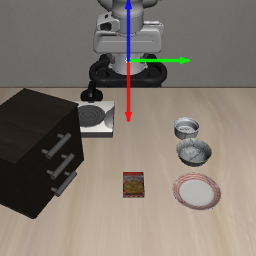
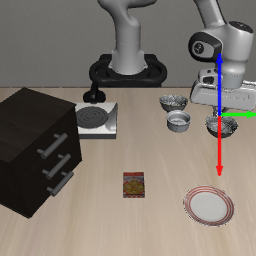
add eval smolvla with basis

diff --git a/src/lerobot/policies/smolvla/modeling_smolvla.py b/src/lerobot/policies/smolvla/modeling_smolvla.py
@@ -290,7 +290,9 @@ class SmolVLAPolicy(PreTrainedPolicy):
             if k in self._queues and k != ACTION:
                 batch[k] = torch.stack(list(self._queues[k]), dim=1)
         images, img_masks = self.prepare_images(batch)
+        #TODO WS: check state is normalized ? and state is same as training ?
         state = self.prepare_state(batch)
+        import pudb; pudb.set_trace()
         lang_tokens = batch[f"{OBS_LANGUAGE_TOKENS}"]
         lang_masks = batch[f"{OBS_LANGUAGE_ATTENTION_MASK}"]
 
@@ -344,7 +346,7 @@ class SmolVLAPolicy(PreTrainedPolicy):
         )
 
         self.eval()
-        if self.config.visual_cue_mode is not "vanilla":
+        if self.config.visual_cue_mode != "vanilla":
             batch = self._get_visual_cues(batch)
         batch = self._prepare_batch(batch)
         self._queues = populate_queues(self._queues, batch, exclude_keys=[ACTION])
@@ -381,6 +383,7 @@ class SmolVLAPolicy(PreTrainedPolicy):
             batch[OBS_STATE] = self._pi_aloha_decode_state(batch[OBS_STATE])
             batch[ACTION] = self._pi_aloha_encode_actions_inv(batch[ACTION])
         images, img_masks = self.prepare_images(batch)
+        #TODO WS: check state is normalized ?
         state = self.prepare_state(batch)
         lang_tokens = batch[f"{OBS_LANGUAGE_TOKENS}"]
         lang_masks = batch[f"{OBS_LANGUAGE_ATTENTION_MASK}"]
@@ -492,12 +495,12 @@ class SmolVLAPolicy(PreTrainedPolicy):
 
     def _get_visual_cues(self, item):
         try:
-            extrinsic_matrix = item['observation.cam_info']['extrinsic_matrix'].to(torch.float32)
+            extrinsic_matrix = item['observation.cam_info']['extrinsic_matrix'].to(torch.float32).squeeze(0)
             extrinsic_matrix = remove_extrinsic_camera_axis_correction(extrinsic_matrix)
 
-            intrinsic_matrix = item['observation.cam_info']['intrinsic_matrix'].to(torch.float32)
-            robot_state = item['observation.state'] #eef pos (3), eef quat (4), gripper qpos (2), 
-            img = item['observation.images.camera1'] # S * C * H * W
+            intrinsic_matrix = item['observation.cam_info']['intrinsic_matrix'].to(torch.float32).squeeze(0)
+            robot_state = item['observation.cam_info']['unnormalized_state'] # gripper qpos (2), eef pos (3), eef quat (4),
+            img = item['observation.image'] # S * C * H * W
 
             if "basis" in self.config.visual_cue_mode:
                 with torch.no_grad():
@@ -506,29 +509,29 @@ class SmolVLAPolicy(PreTrainedPolicy):
                             rgb_tensor=img,                  # (B, 3,H,W)
                             cam_to_world=extrinsic_matrix,                  # cam_pose = cam_to_world (고정)
                             intrinsic_matrix=intrinsic_matrix,
-                            robot_eef_abs_poses=robot_state[:, :7],  # eef pose (B, 7)
+                            robot_eef_abs_poses=robot_state[:, -7:],  # eef pose (B, 7)
                             origin_robot=True,
                             origin_fallback="pp",
                             arrow_len=60,
                             return_overlay=False,
                         )
                         try:
-                            wrist_img = item['observation.images.camera2']
-                            wrist_intrinsic_matrix = item['observation.cam_info']['wrist_intrinsic_matrix'].to(torch.float32)
-                            wrist_extrinsic_matrix = item['observation.cam_info']['wrist_extrinsic_matrix'].to(torch.float32)
+                            wrist_img = item['observation.wrist_image']
+                            wrist_intrinsic_matrix = item['observation.cam_info']['wrist_intrinsic_matrix'].to(torch.float32).squeeze(0)
+                            wrist_extrinsic_matrix = item['observation.cam_info']['wrist_extrinsic_matrix'].to(torch.float32).squeeze(0)
                             wrist_plucker_extrinsic_matrix = remove_extrinsic_camera_axis_correction(wrist_extrinsic_matrix)
                             wrist_axis_tensor, wrist_origin_xy = _rescale_make_motion_basis_axis_rgb_tensor_cam_to_world(
                                 rgb_tensor=wrist_img,
                                 cam_to_world=wrist_plucker_extrinsic_matrix,
                                 intrinsic_matrix=wrist_intrinsic_matrix,
-                                robot_eef_abs_poses=robot_state[:, :7],
+                                robot_eef_abs_poses=robot_state[:, -7:],
                                 origin_robot=True,
                                 origin_fallback="pp",
                                 arrow_len=60,
                                 return_overlay=False,
                             )
                             # save_rgb_image(wrist_axis_tensor[0], "tmp_dir/wrist_scaled_axis_tensor.png")
-                            item['observation.images.camera2'] = torch.cat([wrist_img, wrist_axis_tensor], dim=1)
+                            item['observation.wrist_image'] = torch.cat([wrist_img, wrist_axis_tensor], dim=1)
                         except:
                             pass
                     else:
@@ -538,39 +541,39 @@ class SmolVLAPolicy(PreTrainedPolicy):
                             motion_dynamics_basis=motion_dynamics_basis,
                             cam_to_world=extrinsic_matrix,                  # cam_pose = cam_to_world (고정)
                             intrinsic_matrix=intrinsic_matrix,
-                            robot_eef_abs_poses=robot_state[:, :7],  # eef pose (B, 7)
+                            robot_eef_abs_poses=robot_state[:, -7:],  # eef pose (B, 7)
                             origin_robot=True,
                             origin_fallback="pp",
                             arrow_len=60,
                             return_overlay=False,
                         ) # (B, 3, H, W)
                         try:
-                            wrist_img = item['observation.images.camera2']
-                            wrist_intrinsic_matrix = item['observation.cam_info']['wrist_intrinsic_matrix'].to(torch.float32)
-                            wrist_extrinsic_matrix = item['observation.cam_info']['wrist_extrinsic_matrix'].to(torch.float32)
+                            wrist_img = item['observation.wrist_image']
+                            wrist_intrinsic_matrix = item['observation.cam_info']['wrist_intrinsic_matrix'].to(torch.float32).squeeze(0)
+                            wrist_extrinsic_matrix = item['observation.cam_info']['wrist_extrinsic_matrix'].to(torch.float32).squeeze(0)
                             wrist_plucker_extrinsic_matrix = remove_extrinsic_camera_axis_correction(wrist_extrinsic_matrix)
                             wrist_axis_tensor, wrist_origin_xy = _make_motion_basis_wrist_axis_rgb_tensor_cam_to_world(
                                 rgb_tensor=wrist_img,
                                 cam_to_world=wrist_plucker_extrinsic_matrix,
                                 intrinsic_matrix=wrist_intrinsic_matrix,
-                                robot_eef_abs_poses=robot_state[:, :7],
+                                robot_eef_abs_poses=robot_state[:, -7:],
                                 origin_robot=True,
                                 origin_fallback="pp",
                                 arrow_len=60,
                                 return_overlay=False,
                             )
                             # save_rgb_image(wrist_axis_tensor[0], "tmp_dir/wrist_non_scaled_axis_tensor.png")
-                            item['observation.images.camera2'] = torch.cat([wrist_img, wrist_axis_tensor], dim=1)
+                            item['observation.wrist_image'] = torch.cat([wrist_img, wrist_axis_tensor], dim=1)
                         except:
                             pass
-                item['observation.images.camera1'] = torch.cat([img, axis_tensor], dim=1)
+                item['observation.image'] = torch.cat([img, axis_tensor], dim=1)
                 # save_rgb_image(axis_tensor[0], "tmp_dir/axis_tensor.png")
                 # save_rgb_image(item['observation.image'][0], "tmp_dir/robot_image.png")
 
         except Exception as e:
             print(e)
         return item
-    
+
 def pad_tensor(tensor, max_len, pad_value=0):
     """
     Efficiently pads a tensor along sequence dimension to match max_len.
@@ -635,7 +638,6 @@ class VLAFlowMatching(nn.Module):
             expert_width_multiplier=self.config.expert_width_multiplier,
             device=self.config.device if self.config.device is not None else "auto",
             visual_cue_mode=self.config.visual_cue_mode,
-            code_mode=self.config.code_mode,
         )
         self.state_proj = nn.Linear(
             self.config.max_state_dim, self.vlm_with_expert.config.text_config.hidden_size

diff --git a/src/lerobot/policies/smolvla/smolvlm_with_expert.py b/src/lerobot/policies/smolvla/smolvlm_with_expert.py
@@ -73,7 +73,6 @@ class SmolVLMWithExpertModel(nn.Module):
         expert_width_multiplier: float = 0.5,
         device: str = "auto",
         visual_cue_mode: str = "none",
-        code_mode: str = "train",
     ):
         super().__init__()
         if load_vlm_weights:
@@ -96,7 +95,6 @@ class SmolVLMWithExpertModel(nn.Module):
         self.config = config
         self.visual_cue_mode = visual_cue_mode
         self.new_visual_cue_encoder = False
-        self.code_mode = code_mode
         self.apply_visual_cue_mode()
         # Smaller lm expert
         lm_expert_config = copy.deepcopy(config.text_config)
@@ -585,63 +583,62 @@ class SmolVLMWithExpertModel(nn.Module):
         return att_output
 
     def apply_visual_cue_mode(self):
-        if self.code_mode == "train":
-            if self.visual_cue_mode == "basis_rescale_concat" or self.visual_cue_mode == "basis_concat":
-                self.vlm.model.vision_model.embeddings.patch_embedding = expand_in_channels_keep_rgb(
-                    self.vlm.model.vision_model.embeddings.patch_embedding, new_in_chans=6,
-                )
-                print("patch_embedding: Expanded in_channels to 6 for {}-based input!".format(self.visual_cue_mode))
-            elif self.visual_cue_mode == "plucker_concat":
-                self.vlm.model.vision_model.embeddings.patch_embedding = expand_in_channels_keep_rgb(
-                    self.vlm.model.vision_model.embeddings.patch_embedding, new_in_chans=9,
-                )
-                print("patch_embedding: Expanded in_channels to 9 for plucker-based input!")
+        if self.visual_cue_mode == "basis_rescale_concat" or self.visual_cue_mode == "basis_concat":
+            self.vlm.model.vision_model.embeddings.patch_embedding = expand_in_channels_keep_rgb(
+                self.vlm.model.vision_model.embeddings.patch_embedding, new_in_chans=6,
+            )
+            print("patch_embedding: Expanded in_channels to 6 for {}-based input!".format(self.visual_cue_mode))
+        elif self.visual_cue_mode == "plucker_concat":
+            self.vlm.model.vision_model.embeddings.patch_embedding = expand_in_channels_keep_rgb(
+                self.vlm.model.vision_model.embeddings.patch_embedding, new_in_chans=9,
+            )
+            print("patch_embedding: Expanded in_channels to 9 for plucker-based input!")
 
-            elif self.visual_cue_mode == "plucker" or self.visual_cue_mode == "basis" or self.visual_cue_mode == "basis_rescale":
-                # Encode 6-channel Plücker map to a 512-d feature grid
-                in_channels = 3 if self.visual_cue_mode != "plucker" else 6
-                self.visual_cue_encoder = nn.Sequential(
-                    nn.Conv2d(in_channels, 64, kernel_size=7, stride=2, padding=3, bias=False),
-                    FrozenBatchNorm2d(64),
-                    nn.ReLU(inplace=True),
-                    nn.Conv2d(64, 128, kernel_size=3, stride=2, padding=1, bias=False),
-                    FrozenBatchNorm2d(128),
-                    nn.ReLU(inplace=True),
-                    nn.Conv2d(128, 256, kernel_size=3, stride=2, padding=1, bias=False),
-                    FrozenBatchNorm2d(256),
-                    nn.ReLU(inplace=True),
-                    nn.Conv2d(256, 512, kernel_size=3, stride=2, padding=1, bias=False),
-                    FrozenBatchNorm2d(512),
-                    nn.ReLU(inplace=True),
-                    nn.Conv2d(512, 512, kernel_size=3, stride=2, padding=1, bias=False),
-                    FrozenBatchNorm2d(512),
-                    nn.ReLU(inplace=True),
-                )
-                # Project to vision hidden size and fuse with SigLIP tokens
-                vision_hidden = int(self.vlm.config.vision_config.hidden_size)
-                self.visual_cue_out_proj = nn.Conv2d(512, vision_hidden, kernel_size=1)
-                self.vision_fusion_proj = nn.Linear(vision_hidden * 2, vision_hidden)
-                # Normalize streams and align dtypes with vision encoder
-                self.vision_ln = nn.LayerNorm(vision_hidden, elementwise_affine=False)
-                self.visual_cue_ln = nn.LayerNorm(vision_hidden, elementwise_affine=False)
-                vf_dtype = self.get_vlm_model().vision_model.dtype
-                self.visual_cue_out_proj = self.visual_cue_out_proj.to(dtype=vf_dtype)
-                self.vision_fusion_proj = self.vision_fusion_proj.to(dtype=vf_dtype)
-                self.new_visual_cue_encoder = True
-                print("Initialized visual cue encoder for {} input!.".format(self.visual_cue_mode))
-        else:
-            print("EVAL mode")
-            if self.visual_cue_mode == "basis_rescale_concat" or self.visual_cue_mode == "basis_concat" or self.visual_cue_mode == "plucker_concat":
-                print("EVAL: Expanded in_channels for {}-based input!".format(self.visual_cue_mode))
-                print("Current Model patch embedding in channels: ", self.vlm.model.vision_model.embeddings.patch_embedding.in_channels) 
+        elif self.visual_cue_mode == "plucker" or self.visual_cue_mode == "basis" or self.visual_cue_mode == "basis_rescale":
+            # Encode 6-channel Plücker map to a 512-d feature grid
+            in_channels = 3 if self.visual_cue_mode != "plucker" else 6
+            self.visual_cue_encoder = nn.Sequential(
+                nn.Conv2d(in_channels, 64, kernel_size=7, stride=2, padding=3, bias=False),
+                FrozenBatchNorm2d(64),
+                nn.ReLU(inplace=True),
+                nn.Conv2d(64, 128, kernel_size=3, stride=2, padding=1, bias=False),
+                FrozenBatchNorm2d(128),
+                nn.ReLU(inplace=True),
+                nn.Conv2d(128, 256, kernel_size=3, stride=2, padding=1, bias=False),
+                FrozenBatchNorm2d(256),
+                nn.ReLU(inplace=True),
+                nn.Conv2d(256, 512, kernel_size=3, stride=2, padding=1, bias=False),
+                FrozenBatchNorm2d(512),
+                nn.ReLU(inplace=True),
+                nn.Conv2d(512, 512, kernel_size=3, stride=2, padding=1, bias=False),
+                FrozenBatchNorm2d(512),
+                nn.ReLU(inplace=True),
+            )
+            # Project to vision hidden size and fuse with SigLIP tokens
+            vision_hidden = int(self.vlm.config.vision_config.hidden_size)
+            self.visual_cue_out_proj = nn.Conv2d(512, vision_hidden, kernel_size=1)
+            self.vision_fusion_proj = nn.Linear(vision_hidden * 2, vision_hidden)
+            # Normalize streams and align dtypes with vision encoder
+            self.vision_ln = nn.LayerNorm(vision_hidden, elementwise_affine=False)
+            self.visual_cue_ln = nn.LayerNorm(vision_hidden, elementwise_affine=False)
+            vf_dtype = self.get_vlm_model().vision_model.dtype
+            self.visual_cue_out_proj = self.visual_cue_out_proj.to(dtype=vf_dtype)
+            self.vision_fusion_proj = self.vision_fusion_proj.to(dtype=vf_dtype)
+            self.new_visual_cue_encoder = True
+            print("Initialized visual cue encoder for {} input!.".format(self.visual_cue_mode))
+        # else:
+        #     print("EVAL mode")
+        #     if self.visual_cue_mode == "basis_rescale_concat" or self.visual_cue_mode == "basis_concat" or self.visual_cue_mode == "plucker_concat":
+        #         print("EVAL: Expanded in_channels for {}-based input!".format(self.visual_cue_mode))
+        #         print("Current Model patch embedding in channels: ", self.vlm.model.vision_model.embeddings.patch_embedding.in_channels) 
 
-            elif self.visual_cue_mode == "plucker" or self.visual_cue_mode == "basis" or self.visual_cue_mode == "basis_rescale":
-                print("EVAL: Initialized visual cue encoder for {} input!.".format(self.visual_cue_mode))
-                #check if visual cue encoder exists
-                if not hasattr(self, 'visual_cue_encoder'):
-                    print("visual_cue_encoder not found in eval mode !!!!")
-                else:
-                    print("visual_cue_encoder found in eval mode !!!!")               
+        #     elif self.visual_cue_mode == "plucker" or self.visual_cue_mode == "basis" or self.visual_cue_mode == "basis_rescale":
+        #         print("EVAL: Initialized visual cue encoder for {} input!.".format(self.visual_cue_mode))
+        #         #check if visual cue encoder exists
+        #         if not hasattr(self, 'visual_cue_encoder'):
+        #             print("visual_cue_encoder not found in eval mode !!!!")
+        #         else:
+        #             print("visual_cue_encoder found in eval mode !!!!")               
 
 
 def expand_in_channels_keep_rgb(conv: nn.Conv2d, new_in_chans: int,) -> nn.Conv2d:

diff --git a/src/lerobot/processor/env_processor.py b/src/lerobot/processor/env_processor.py
@@ -55,7 +55,8 @@ class LiberoProcessorStep(ObservationProcessorStep):
                 img = processed_obs[key]
 
                 # Flip both H and W
-                img = torch.flip(img, dims=[2, 3])
+                img = torch.flip(img, dims=[2])
+                # img = torch.flipud(img)
 
                 processed_obs[key] = img
         # Process robot_state into a flat state vector
@@ -69,16 +70,19 @@ class LiberoProcessorStep(ObservationProcessorStep):
             gripper_qpos = robot_state["gripper"]["qpos"]  # (B, 2,)
 
             # Convert quaternion to axis-angle
-            eef_axisangle = self._quat2axisangle(eef_quat)  # (B, 3)
-            # Concatenate into a single state vector
-            state = torch.cat((eef_pos, eef_axisangle, gripper_qpos), dim=-1)
-
+            #TODO check this function
+            # eef_axisangle = self._quat2axisangle(eef_quat)  # (B, 3)
+            # # Concatenate into a single state vector
+            # state = torch.cat((eef_pos, eef_axisangle, gripper_qpos), dim=-1)
+            state = torch.cat((gripper_qpos, eef_pos, eef_quat), dim=-1)
+            # state = torch.cat((eef_pos, eef_quat, gripper_qpos), dim=-1)
             # ensure float32
             state = state.float()
             if state.dim() == 1:
                 state = state.unsqueeze(0)
 
             processed_obs[OBS_STATE] = state
+            processed_obs['observation.cam_info']['unnormalized_state'] = state
         return processed_obs
 
     def transform_features(

diff --git a/src/lerobot/scripts/lerobot_eval_for_dp.py b/src/lerobot/scripts/lerobot_eval_for_dp.py
@@ -139,6 +139,8 @@ def rollout(
     # Reset the policy and environments.
     policy.reset()
     observation, info = env.reset(seed=seeds)
+    env = rotate_recolor_dataset.change_object_transparency(env, object_name="akita_black_bowl_2_main", alpha=0.0, debug=True)
+    observation, reward, terminated, truncated, info = env.step(np.array([[0,0,0,0,0,0,0]], dtype=np.float32))
     if render_callback is not None:
         render_callback(env)
 
@@ -167,7 +169,7 @@ def rollout(
 
         # Infer "task" from attributes of environments.
         # TODO: works with SyncVectorEnv but not AsyncVectorEnv
-        observation = add_envs_task(env, observation)
+        observation = add_envs_task(env, observation, for_dp=True)
 
         # Apply environment-specific preprocessing (e.g., LiberoProcessorStep for LIBERO)
         observation = env_preprocessor(observation)

diff --git a/src/lerobot/envs/utils.py b/src/lerobot/envs/utils.py
@@ -167,10 +167,13 @@ def check_env_attributes_and_types(env: gym.vector.VectorEnv) -> None:
             )
 
 
-def add_envs_task(env: gym.vector.VectorEnv, observation: RobotObservation) -> RobotObservation:
+def add_envs_task(env: gym.vector.VectorEnv, observation: RobotObservation, for_dp=False) -> RobotObservation:
     """Adds task feature to the observation dict with respect to the first environment attribute."""
     if hasattr(env.envs[0], "task_description"):
-        task_result = env.call("task_description")
+        if for_dp:
+            task_result = ('pick up the black bowl and place it on the plate',)
+        else:
+            task_result = env.call("task_description")
 
         if isinstance(task_result, tuple):
             task_result = list(task_result)

diff --git a/src/lerobot/policies/smolvla/configuration_smolvla.py b/src/lerobot/policies/smolvla/configuration_smolvla.py
@@ -106,7 +106,7 @@ class SmolVLAConfig(PreTrainedConfig):
     # Real-Time Chunking (RTC) configuration
     rtc_config: RTCConfig | None = None
     visual_cue_mode: str = "none"  # Options are: "none", "basis", "basis-concat"
-    code_mode: str = "train"  # Options are: "train", "eval"
+
     def __post_init__(self):
         super().__post_init__()
 
